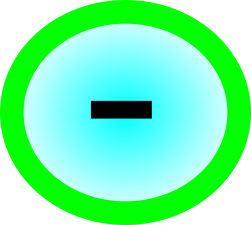
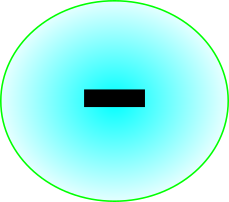
collor corrections to pult

Changed region(s): [[0.0, 0.0, 1.0, 1.0], [0.3362, 0.4158, 0.6419, 0.5347]]

diff --git a/dashboard/fireboard.py b/dashboard/fireboard.py
@@ -13,7 +13,7 @@ class V2kInfo(BaseGridW):
         super().__init__(parent)
         self.setStyleSheet('QLabel{font-size:20pt; color:#00e000}')
 
-        self.grid.addWidget(QLabel("VEPP2k:"), 0, 0)
+        self.grid.addWidget(QLabel("BEP:"), 0, 0)
         self.v2k_particles_lab = CXIntLabel(cname='cxout:1.v2k.regime',
                                             pics={1: f'{script_path}/img/electron.png',
                                                   2: f'{script_path}/img/electron.png',
@@ -44,6 +44,8 @@ class V2kInfo(BaseGridW):
                                            '4->3': f'{script_path}/img/cycle.png',
                                            '3->1': f'{script_path}/img/cycle.png',
                                            '1->3': f'{script_path}/img/cycle.png',
+                                           '1->1': f'{script_path}/img/cycle.png',
+                                           '3->3': f'{script_path}/img/cycle.png',
                                            }
                                      )
         self.grid.addWidget(self.bep_state_l, 0, 3)
@@ -111,7 +113,7 @@ class V34Info(BaseGridW):
 class FireBoardWidget(BaseGridW):
     def __init__(self, parent=None):
         super().__init__(parent)
-        self.setStyleSheet('background: #404040;'
+        self.setStyleSheet('background: #202010;'
                            '')
 
         self.grid.addWidget(V2kInfo(), 0, 0)
